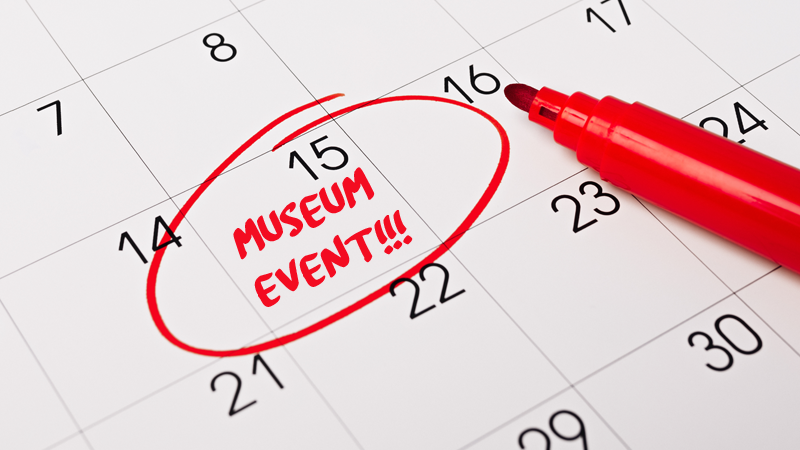
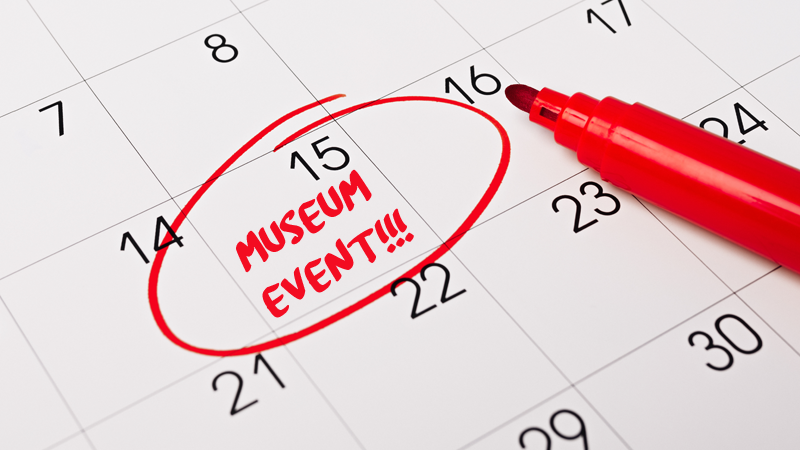
Tweaks
- Added HRs to forms.
- Fixed text alignment in events.png
- Reversed event calendar order.
- More about "generations" in donate intro.
- Added pic for tricky turn onto Meadow.

diff --git a/vamnj/donate.html b/vamnj/donate.html
@@ -47,8 +47,9 @@
         </div>
         <div class="body-content">
             <h2>Every little bit helps</h2>
+            <p>Our greatest wish is for the museum to continue operating for decades to come, so future generations can continue enjoying the automotive legacy passed down to us.</p>
             <p>Although grants and raffles help us stay afloat, we can't achieve our <a href="#dreams">biggest dreams</a> for the museum without additional funding.</p>
-            <p>By donating, you're helping us reach our <span class="bolded">true potential</span>. Whether you're a certified &ldquo;car nut&rdquo; or simply want to contribute, <a href="#donation-form">your donation today</a> means we can do more than just keep the lights on... Together, we can put spotlights on even more classic cars!</p>
+            <p>By donating, you're becoming part of our <span class="bolded">shared automotive history</span> and helping us reach our <span class="bolded">true potential</span>. Whether you're a certified &ldquo;car nut&rdquo; or simply want to contribute, <a href="#donation-form">your donation today</a> means we can do more than just keep the lights on... Together, we can put spotlights on even more classic cars!</p>
         </div>
         <div class="body-content">
             <div class="container-text container-border">
@@ -72,7 +73,7 @@
                 </p>When you donate, you help us achieve...</p>
                 <ul class="goal-list">
                     <li class="complete"><del aria-label="Completed">Amazing classic cars</del></li>
-                    <li class="complete"><del aria-label="Completed">&ldquo;Museum on Wheels&rdquo;</del></li>
+                    <li class="complete"><del aria-label="Completed">&ldquo;Museum on wheels&rdquo; events</del></li>
                     <li class="complete"><del aria-label="Completed">Physical location</del></li>
                     <li class="incomplete">Larger building with more parking</li>
                     <li class="incomplete">More amazing classic cars and automotive memorabilia</li>
@@ -113,6 +114,8 @@
                         </label>
                     </div>
                     
+                    <hr>
+                    
                     <div class="form-group donate-options">
                         <div><input type="radio" name="options" value="5" onclick="updateTotal()" checked>$5</div>
                         <div><input type="radio" name="options" value="10" onclick="updateTotal()">$10</div>
@@ -126,11 +129,15 @@
                         <input type="number" value="1" min="1" id="donationAmount" name="donationAmount" required>
                         <button type="button" onclick="addCustom()">Update total</button>
                     </div>
+                    
+                    <hr>
 
                     <div class="form-group total">
                         <label class="bolded">Total</label>
                         <output id="totalField">$5</output>
                     </div>
+                    
+                    <hr>
 
                     <!-- Payment Section -->
                     <div id="paymentSection">
@@ -163,6 +170,8 @@
                             </div>
                         </div>
                     </div>
+                    
+                    <hr>
 
                     <button type="button" onclick="submitForm()" class="submit-button">SUBMIT</button>
                     <button type="button" onclick="resetForm()">RESET</button>

diff --git a/vamnj/visit.html b/vamnj/visit.html
@@ -50,9 +50,13 @@
                 <p class="p-visit">Same building as the boat museum, but on the opposite side.</p>
                 <a href="https://maps.app.goo.gl/tTup8yEPkfR9cFeT6" target="_blank" rel="noopener noreferrer">
                     <ul>
-                        <li>13 Meadow Ave.</li>
+                        <li>1800 Bay Ave., left on Meadow Ave., Bldg. 13</li>
                         <li>Point Pleasant, NJ 08742</li>
                     </ul>
+                </a>
+                <p class="italics">Click the image below to see the turn that visitors often miss:</p>
+                <a href="/vamnj/images/visit/visit.png" target="_blank" rel="noopener noreferrer">
+                    <img id="visit-thumb" src="/vamnj/images/visit/visit-thumb.png" alt="Turn left onto Meadow Ave.">
                 </a>
             </div>
         </div>
@@ -99,19 +103,19 @@
             <div class="splish-3">
                 <a href="/vamnj/membership.html">
                     <div class="splish">
-                        <img src="/vamnj/images/visit/review-logo-google.svg" alt="Membership icon">
+                        <img src="/vamnj/images/visit/review-logo-google.svg" alt="Google icon">
                         <p>Google Reviews</p>
                     </div>
                 </a>
                 <a href="/vamnj/donate.html">
                     <div class="splish">
-                        <img src="/vamnj/images/visit/review-logo-tripadvisor.svg" alt="Donate icon">
+                        <img src="/vamnj/images/visit/review-logo-tripadvisor.svg" alt="Tripadvisor icon">
                         <p>Tripadvisor</p>
                     </div>
                 </a>
                 <a href="/vamnj/raffle.html">
                     <div class="splish">
-                        <img src="/vamnj/images/visit/review-logo-yelp.svg" alt="Ticket icon">
+                        <img src="/vamnj/images/visit/review-logo-yelp.svg" alt="Yelp icon">
                         <p>Yelp</p>
                     </div>
                 </a>

diff --git a/vamnj/raffle.html b/vamnj/raffle.html
@@ -90,15 +90,22 @@
                         </label>
                     </div>
                     
+                    <hr>
+                    
                     <div class="form-group" id="numTicketsBox">
+                        <label for="ticketCount">Number of tickets</label>
                         <input type="number" value="1" min="1" id="ticketCount" name="ticketCount" required>
                         <button type="button" onclick="updateTotal()">Update total</button>
                     </div>
+                    
+                    <hr>
 
                     <div class="form-group total">
                         <label class="bolded">Total</label>
                         <output id="totalField">$100</output>
                     </div>
+                    
+                    <hr>
 
                     <!-- Payment Section -->
                     <div id="paymentSection">
@@ -131,6 +138,8 @@
                             </div>
                         </div>
                     </div>
+                    
+                    <hr>
 
                     <button type="button" onclick="submitForm()" class="submit-button">SUBMIT</button>
                     <button type="button" onclick="resetForm()">RESET</button>

diff --git a/vamnj/style.css b/vamnj/style.css
@@ -169,6 +169,14 @@ input[type="number"]::-webkit-outer-spin-button {
     margin: 0; /* Ensure text stays aligned with image */
 }
 
+hr {
+    width: 84%;
+    border: none;
+    height: 1px;
+    background-color: #a8a8a8;
+    margin: 40px auto;
+}
+
 /*****************************************************************************/
 /* SLIDING MENU **************************************************************/
 /*****************************************************************************/
@@ -190,7 +198,6 @@ input[type="number"]::-webkit-outer-spin-button {
     width: 250px;
     height: 100%;
     background-color: #b3834d;
-    box-shadow: 2px 0 5px rgba(0, 0, 0, 0.5);
     overflow: auto;
     transition: left 0.3s ease; /* Smooth sliding effect */
     z-index: 1001;
@@ -226,6 +233,7 @@ input[type="number"]::-webkit-outer-spin-button {
 
 .side-menu.open {
     left: 0; /* Slide in from the left */
+    box-shadow: 2px 0 5px rgba(0, 0, 0, 0.5); /* Add shadow when menu is open */
 }
 
 .menu-alt-section {

diff --git a/vamnj/membership.html b/vamnj/membership.html
@@ -101,10 +101,14 @@
                         <input type="email" id="email" name="email" required>
                     </div>
                     
+                    <hr>
+                    
                     <div class="form-group total">
                         <label class="bolded">Total</label>
                         <output id="totalField">$0</output>
                     </div>
+                    
+                    <hr>
 
                     <div class="form-group">
                         <label>
@@ -149,6 +153,8 @@
                             </div>
                         </div>
                     </div>
+                    
+                    <hr>
 
                     <button type="button" onclick="submitForm()" class="submit-button">SUBMIT</button>
                     <button type="button" onclick="resetForm()">RESET</button>

diff --git a/vamnj/visit.css b/vamnj/visit.css
@@ -95,6 +95,14 @@ li {
     margin-bottom: 0;
 }
 
+#visit-thumb {
+    max-width: 250px;
+    width: 100%;
+    height: auto;
+    display: block;
+    margin: 0 auto 20px auto;
+}
+
 /*****************************************************************************/
 /* BREAKPOINTS ***************************************************************/
 /*****************************************************************************/
